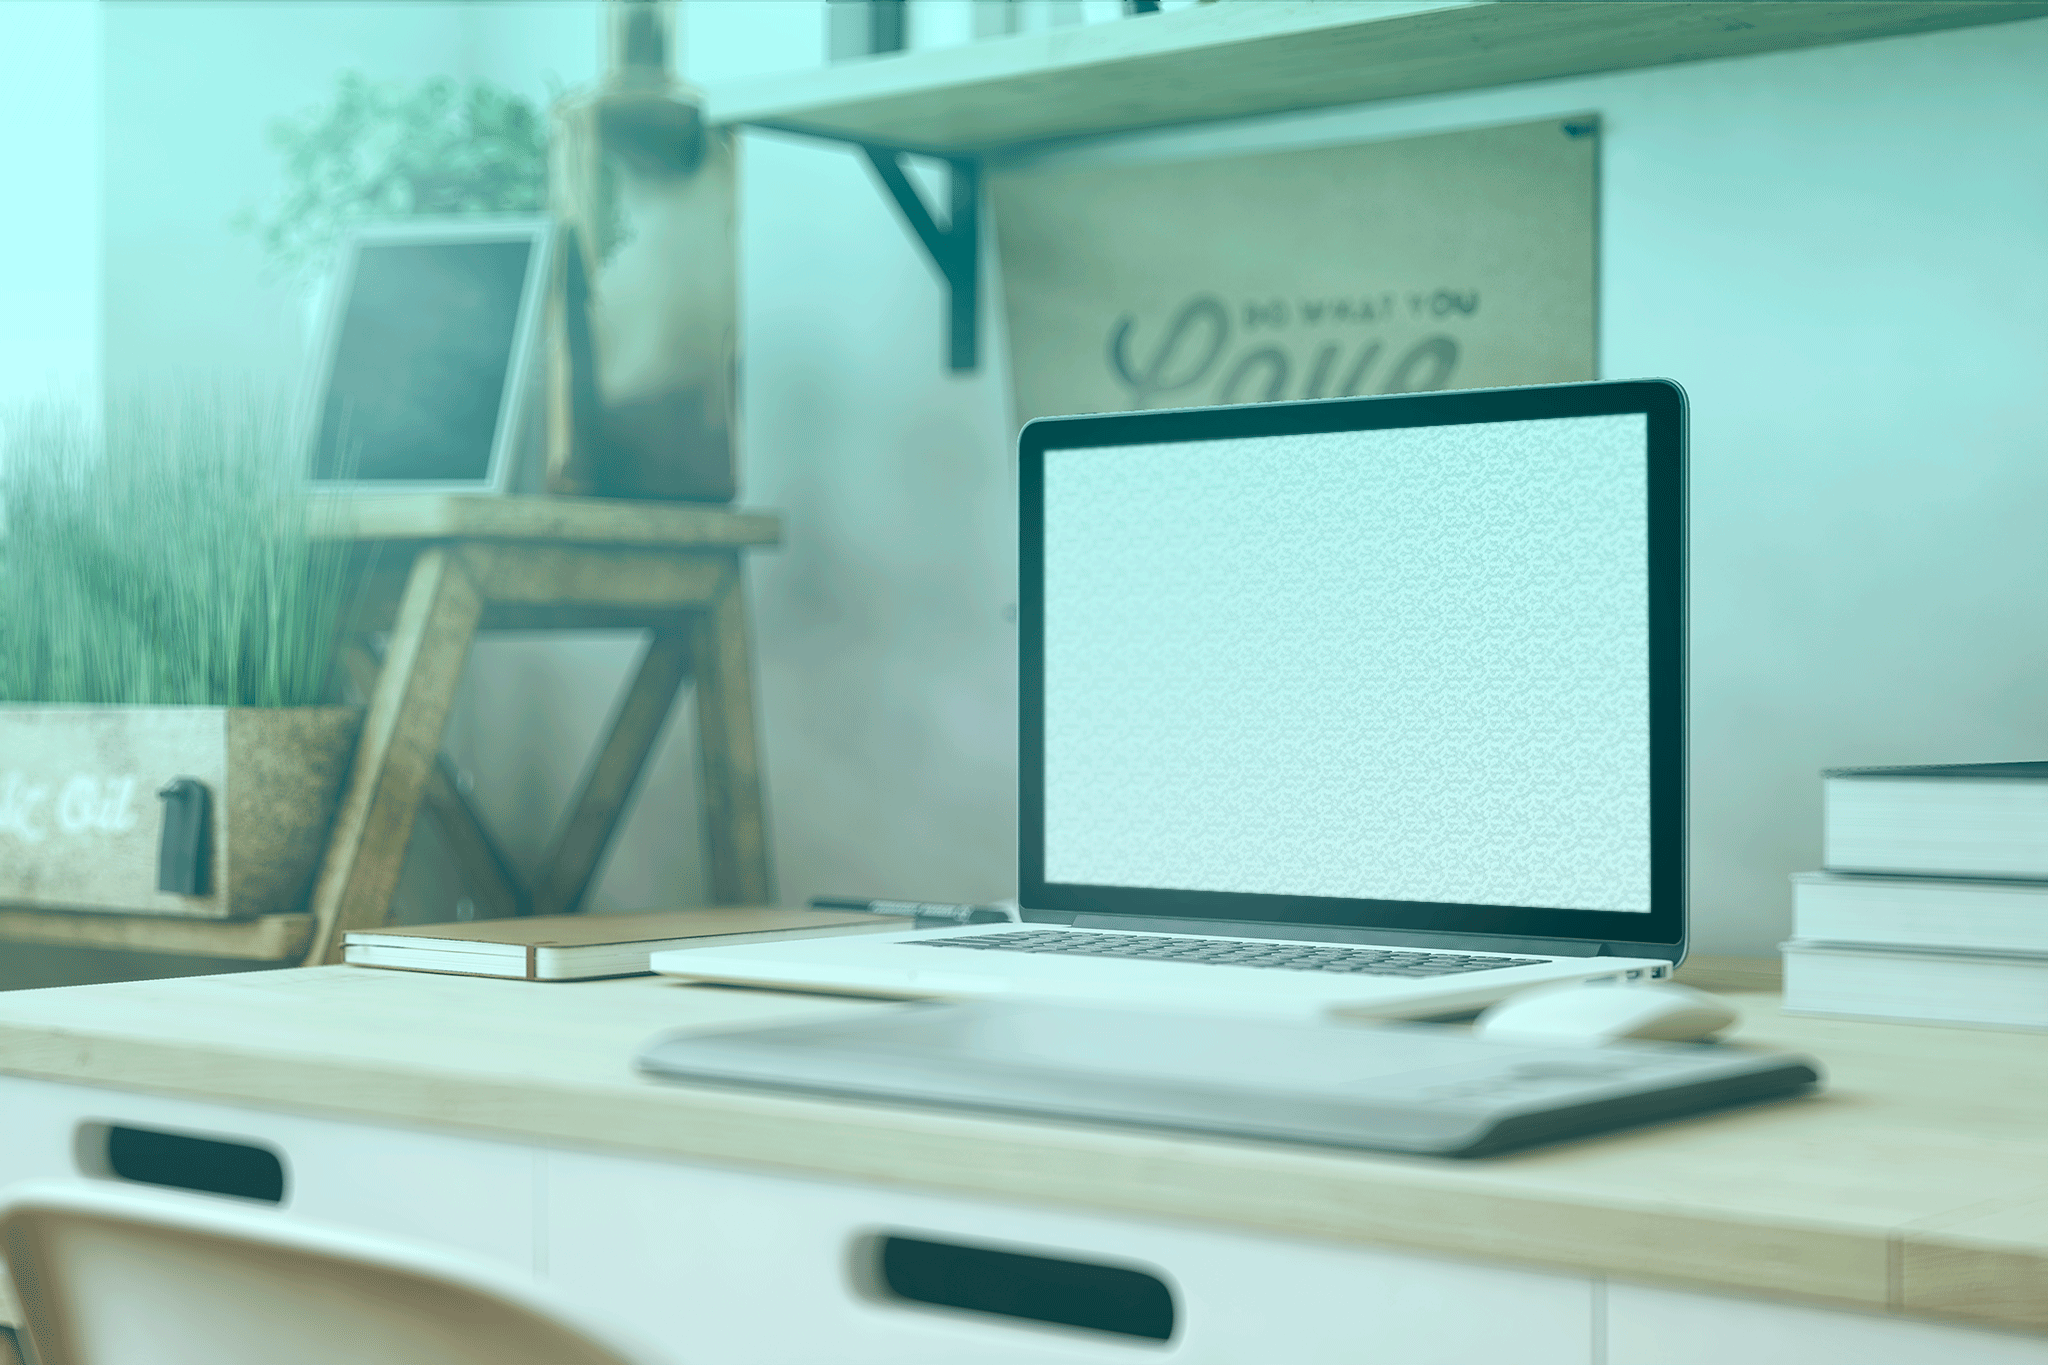
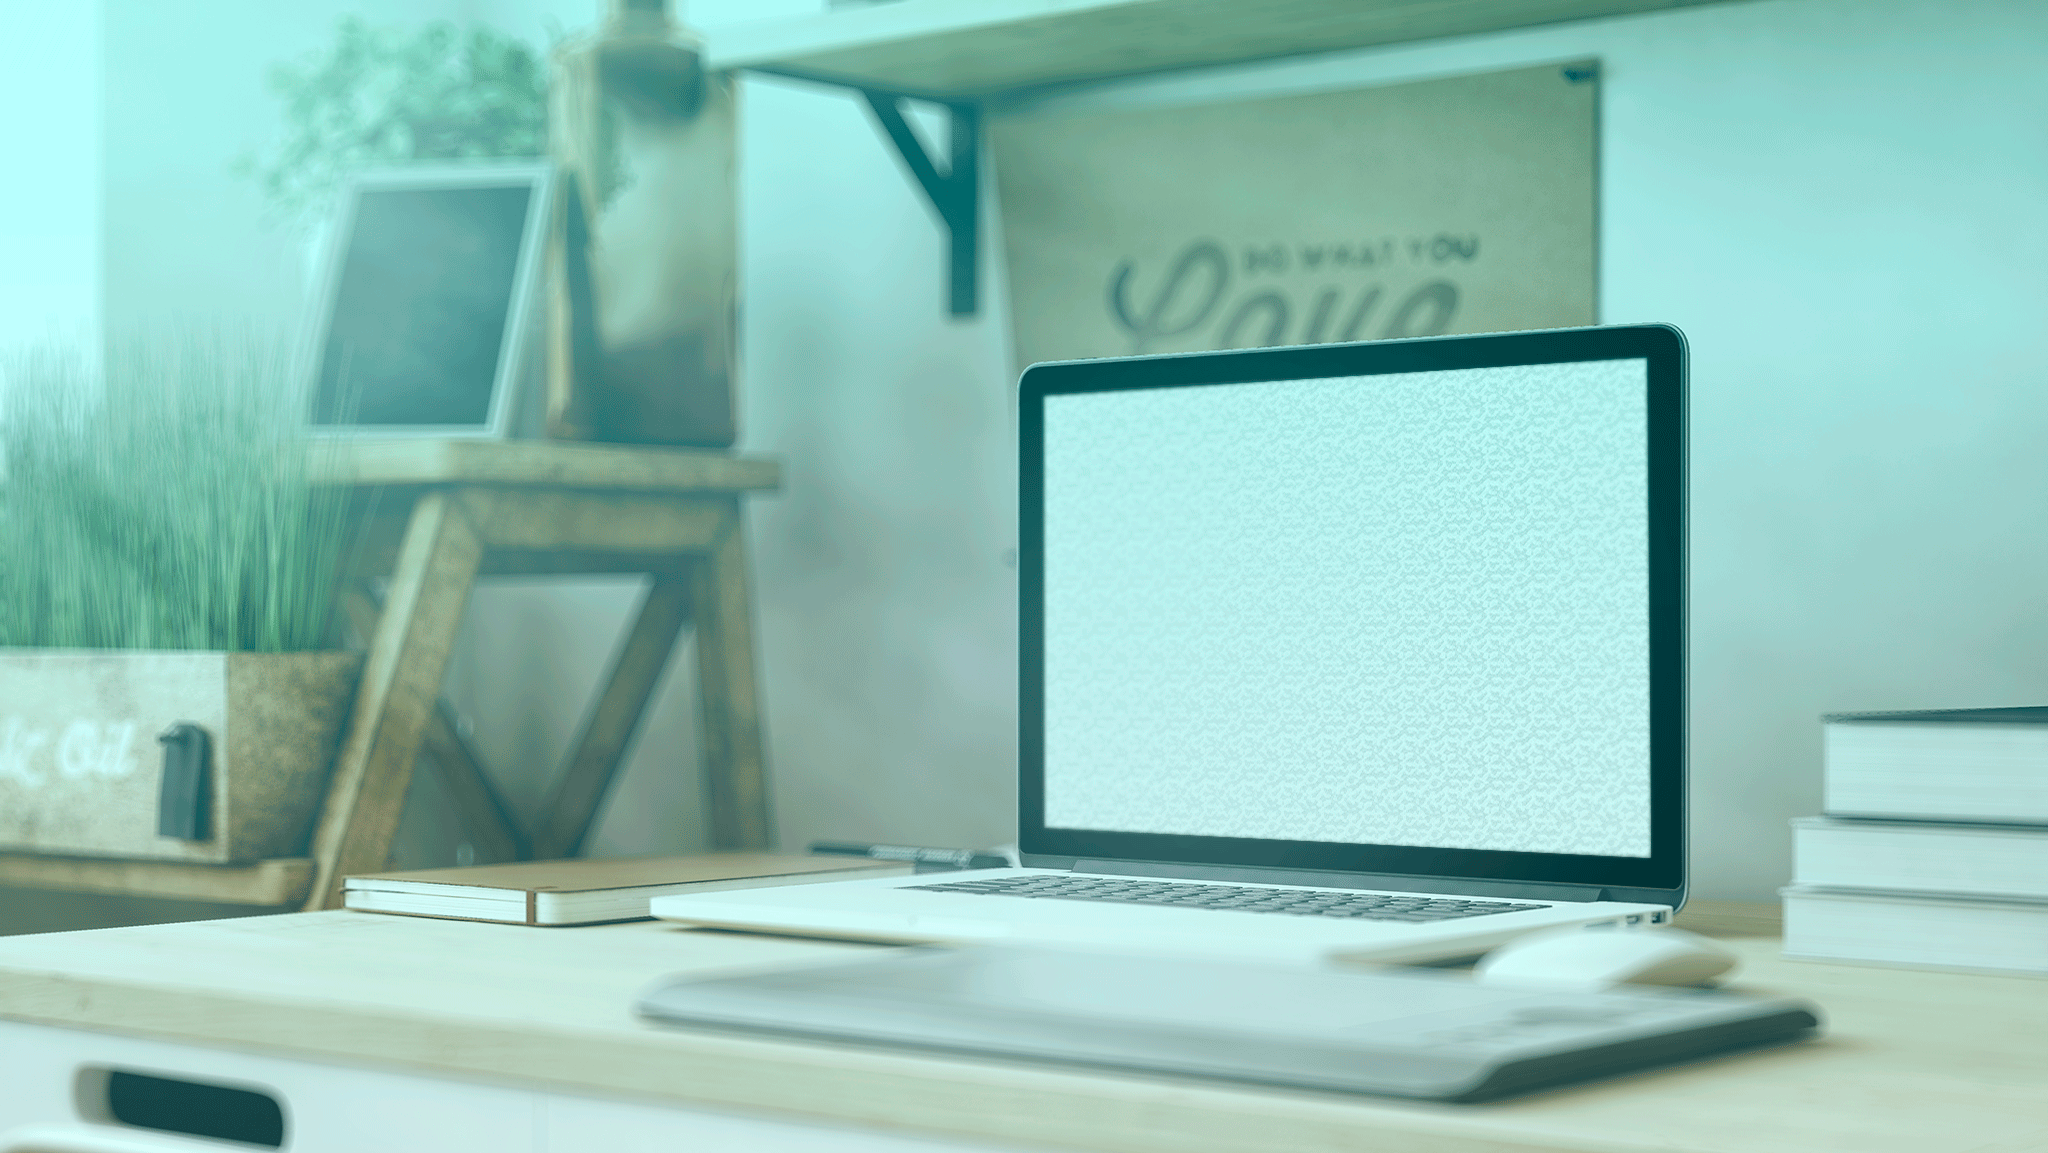
Refactored structure added headers background

diff --git a/index.html b/index.html
@@ -19,54 +19,54 @@
 
 <body>
 
-<div class="container root">
+<header>
+	
+	<nav class="navbar navbar-default">
 
-	<!-- first unit -->
-
-	<div class="first-unit">
-
-		<!-- navbar -->
-
-		<nav class="navbar navbar-default" id="nav">
-		  <div class="container">
-		    <!-- Brand and toggle get grouped for better mobile display -->
+		<div class="container">
 		    <div class="navbar-header">
-			      <button type="button" class="navbar-toggle collapsed" data-toggle="collapse" data-target="#bs-example-navbar-collapse-1" aria-expanded="false">
-			        <span class="sr-only">Toggle navigation</span>
-			        <span class="icon-bar"></span>
-			        <span class="icon-bar"></span>
-			        <span class="icon-bar"></span>
-			      </button>
-			      <a class="navbar-brand" href="#">kuzovova</a>
+				<button type="button" class="navbar-toggle collapsed" data-toggle="collapse" data-target="#bs-example-navbar-collapse-1" aria-expanded="false">
+					<span class="sr-only">Toggle navigation</span>
+					<span class="icon-bar"></span>
+					<span class="icon-bar"></span>
+					<span class="icon-bar"></span>
+				</button>
+				<a class="navbar-brand" href="#">kuzovova</a>
 			</div>
 
-		    <!-- Collect the nav links, forms, and other content for toggling -->
-		    <div class="collapse navbar-collapse" id="bs-example-navbar-collapse-1">
-		      <ul class="nav navbar-nav navbar-right">
-		        <li><a href="#">Услуги</a></li>
-		        <li><a href="#">Кейсы</a></li>
-		        <li><a href="#">Контакты</a></li>
-		      </ul>
-		    </div><!-- /.navbar-collapse -->
-		  </div><!-- /.container-fluid -->
-		</nav>
+			<div class="collapse navbar-collapse" id="bs-example-navbar-collapse-1">
+			    <ul class="nav navbar-nav navbar-right">
+			    	<li><a href="#">Услуги</a></li>
+			        <li><a href="#">Кейсы</a></li>
+			        <li><a href="#">Контакты</a></li>
+			    </ul>
+			</div>
+		</div>
 
-		<div class="add-form">
-			<div class="add-form-content">
-				<ul class="list-none-style">
-					<li>Вот почему вам нужна</li>
-					<li>именно эта услуга именно сейчас</li>
-					<li>краткая информация</li>
-					<li>краткая информация</li>
-				</ul>
-				<button type="button" class="btn btn-default">Заказать</button>
+	</nav>
+
+	<div class="container">
+		<!-- first unit -->
+		<div class="first-unit">
+			<div class="add-form">
+				<div class="add-form-content">
+					<ul class="list-none-style">
+						<li>Вот почему вам нужна</li>
+						<li>именно эта услуга именно сейчас</li>
+						<li>краткая информация</li>
+						<li>краткая информация</li>
+					</ul>
+					<button type="button" class="btn btn-default">Заказать</button>
+				</div>
 			</div>
 		</div>
 
 	</div>
 
-	<!-- second unit -->
+</header>
 
+<div class="container">
+	<!-- second unit -->
 	<div class="row services-unit">
 
 		<div class="col-md-3 col-sm-3 text-center service-column" id="test">
@@ -127,6 +127,12 @@
 
 	</div>
 
+</div>
+	
+
+
+<div class="container">
+	
 	<div class="cases-carousel-container">
 		<div class="cases-carousel">
 				<div class="case-slide">
@@ -222,7 +228,7 @@
 		</div>
 
 		<div class="my-label">
-			<a href="https://pornhub.com">zalupa inc.</a>
+			<a href="https://github.com/mkobets">kobets inc.</a>
 		</div>
 
 	</div>

diff --git a/assets/css/kuzovova.css b/assets/css/kuzovova.css
@@ -1,34 +1,14 @@
-/*html {
-  background: url(../img/first_unit_background.png) no-repeat center center fixed;
-  -webkit-background-size: cover;
-  -moz-background-size: cover;
-  -o-background-size: cover;
-  background-size: cover;
+header {	
+    height: 100vh;
+    -webkit-flex-flow: column wrap;
+    -ms-flex-flow: column wrap;
+    flex-flow: column wrap;
+    -webkit-align-content: stretch;
+    -ms-flex-line-pack: stretch;
+    align-content: stretch;
+    background: url(../img/first_unit_background.png) 50% 100% no-repeat;
+    background-size: cover;
 }
-*/
-body {
-	min-width: 320px;
-}
-
-#back-ground-image {
-	background: url(../img/first_unit_background.png) no-repeat center center fixed;
-  -webkit-background-size: cover;
-  -moz-background-size: cover;
-  -o-background-size: cover;
-  background-size: cover;
-  position: absolute;
-
-}
-
-.navbar {
-   background-color: transparent;
-   background: transparent;
-   border-color: transparent;
-   margin-left:-15px;
-   margin-right:-15px;
-}
-
-.navbar li { color: #000 }
 
 .first-unit {
 	height: 100vh;
@@ -44,6 +24,10 @@ body {
 .add-form-content {
 	display: table-cell;
 	vertical-align: middle;
+}
+
+.services-unit {
+	padding-bottom: 60px;
 }
 
 .service-column {
